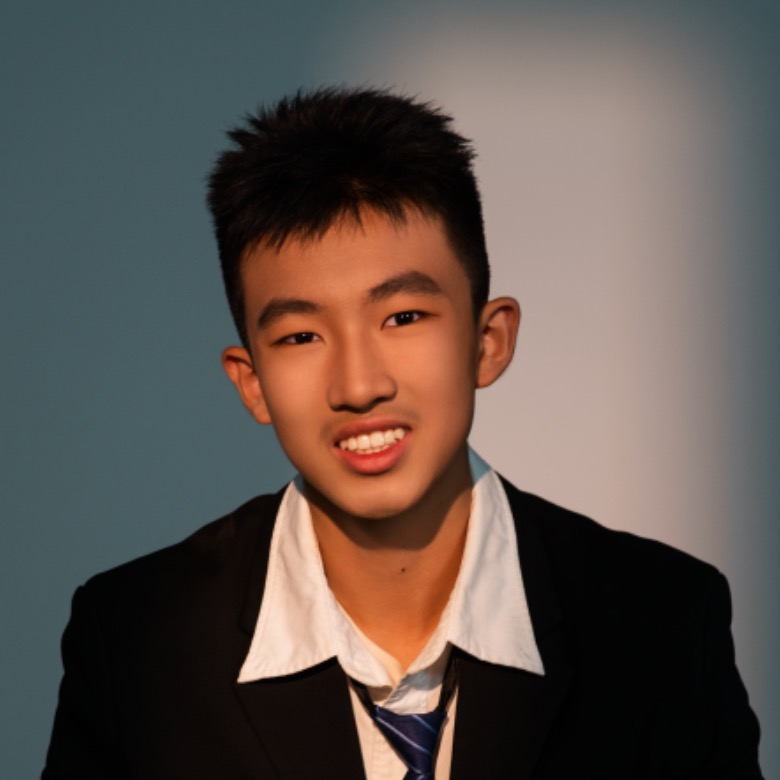
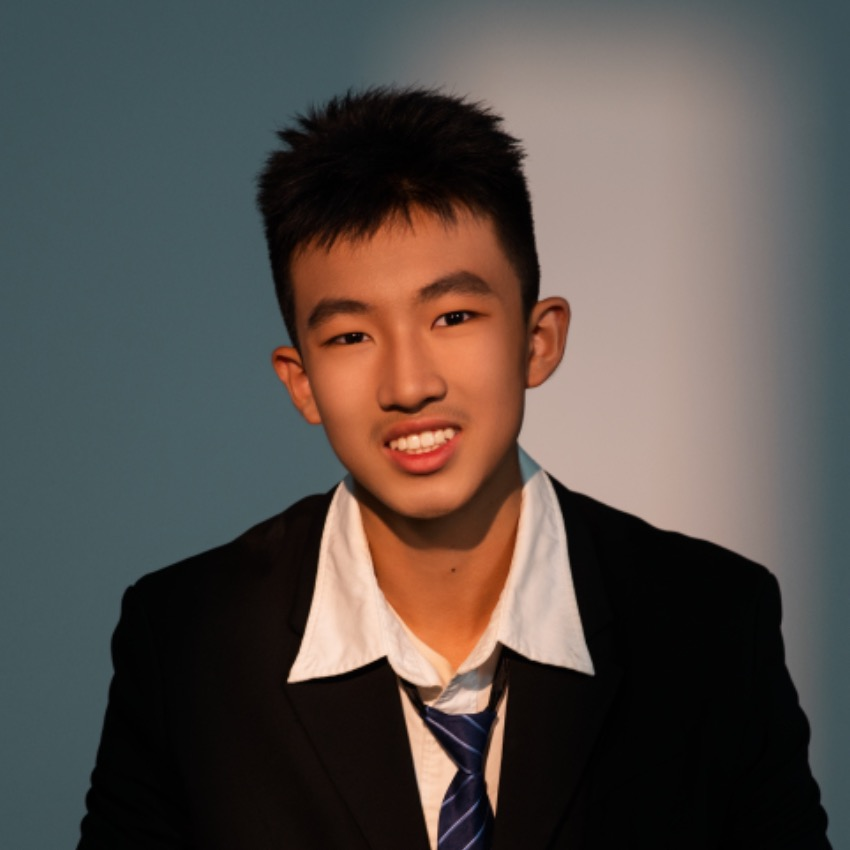
many changes

diff --git a/about.html b/about.html
@@ -4,7 +4,7 @@
     <meta charset="utf-8" />
     <meta name="viewport" content="width=device-width, initial-scale=1" />
     <title>About | Lynk Youth Initiative</title>
-    <link rel="stylesheet" href="styles.css?v=20260801-1" />
+    <link rel="stylesheet" href="styles.css?v=20260802-1" />
     <link rel="icon" href="brand_assets/images/smalllogowithoutbg.png" />
   </head>
   <body>
@@ -64,7 +64,7 @@
           <div class="member-photo-placeholder" role="img" aria-label="Photo placeholder for Soren Ergul">SE</div>
           <h3>Soren Ergul</h3>
           <span class="member-role">Core Leadership Member</span>
-          <p><strong>Grade:</strong> 10 &nbsp;&middot;&nbsp; Lexington High School</p>
+          <p><strong>Grade:</strong> 9 &nbsp;&middot;&nbsp; Lexington High School</p>
           <p><strong>From:</strong> To be added</p>
           <p><strong>Hobbies:</strong> Violin, bicycling, video games, reading, history</p>
         </article>
@@ -73,26 +73,17 @@
           <img src="brand_assets/images/danielliu.jpg" alt="Photo of Daniel Liu" />
           <h3>Daniel Liu</h3>
           <span class="member-role">Core Leadership Member</span>
-          <p><strong>Grade:</strong> 9 &nbsp;&middot;&nbsp; Pike School</p>
-          <p><strong>From:</strong> To be added</p>
+          <p><strong>Grade:</strong> 9 &nbsp;&middot;&nbsp; Cranbrook Schools</p>
+          <p><strong>From:</strong> Detroit, MI, USA</p>
           <p><strong>Hobbies:</strong> Math, Saxophone, Singing, Ice Hockey, Lacrosse</p>
-        </article>
-
-        <article class="member-card" onclick="openModal('renee-modal')">
-          <img src="brand_assets/images/reneegu.jpg" alt="Photo of Renee Gu" />
-          <h3>Renee Gu</h3>
-          <span class="member-role">Core Leadership Member</span>
-          <p><strong>Grade:</strong> 9 &nbsp;&middot;&nbsp; Boston Latin School</p>
-          <p><strong>From:</strong> To be added</p>
-          <p><strong>Hobbies:</strong> Creative writing, art, music, science</p>
         </article>
 
         <article class="member-card">
           <div class="member-photo-placeholder" role="img" aria-label="Photo placeholder for Aleks Mishchenko">AM</div>
           <h3>Aleks Mishchenko</h3>
           <span class="member-role">Core Leadership Member</span>
-          <p><strong>Grade:</strong> 10 &nbsp;&middot;&nbsp; Lexington High School</p>
-          <p><strong>From:</strong> To be added</p>
+          <p><strong>Grade:</strong> 9 &nbsp;&middot;&nbsp; Lexington High School</p>
+          <p><strong>From:</strong> Lexington, MA, USA</p>
           <p><strong>Hobbies:</strong> To be added</p>
         </article>
 
@@ -101,8 +92,17 @@
           <h3>Isaac Chen</h3>
           <span class="member-role">Core Leadership Member</span>
           <p><strong>Grade:</strong> 10 &nbsp;&middot;&nbsp; Lexington High School</p>
-          <p><strong>From:</strong> To be added</p>
+          <p><strong>From:</strong> Lexington, MA, USA</p>
           <p><strong>Hobbies:</strong> To be added</p>
+        </article>
+
+        <article class="member-card" onclick="openModal('renee-modal')">
+          <img src="brand_assets/images/reneegu.jpg" alt="Photo of Renee Gu" />
+          <h3>Renee Gu</h3>
+          <span class="member-role">Member</span>
+          <p><strong>Grade:</strong> 9 &nbsp;&middot;&nbsp; Boston Latin School</p>
+          <p><strong>From:</strong> Boston, MA, USA</p>
+          <p><strong>Hobbies:</strong> Creative writing, art, music, science</p>
         </article>
 
         <article class="member-card">
@@ -110,7 +110,7 @@
           <h3>Simon Bouhours</h3>
           <span class="member-role">Member</span>
           <p><strong>Grade:</strong> 10 &nbsp;&middot;&nbsp; École Alsacienne</p>
-          <p><strong>From:</strong> To be added</p>
+          <p><strong>From:</strong> Paris, France</p>
           <p><strong>Hobbies:</strong> To be added</p>
         </article>
 
@@ -119,7 +119,7 @@
           <h3>Rowan Chiang</h3>
           <span class="member-role">Member</span>
           <p><strong>Grade:</strong> 10 &nbsp;&middot;&nbsp; Burlingame High School</p>
-          <p><strong>From:</strong> To be added</p>
+          <p><strong>From:</strong> Burlingame, CA, USA</p>
           <p><strong>Hobbies:</strong> Volleyball, Math, Reading, Piano, Guitar</p>
         </article>
 
@@ -128,8 +128,8 @@
           <h3>Alistair Smith</h3>
           <span class="member-role">Member</span>
           <p><strong>Grade:</strong> 10 &nbsp;&middot;&nbsp; Coeur d'Alene High School</p>
-          <p><strong>From:</strong> To be added</p>
-          <p><strong>Hobbies:</strong> To be added</p>
+          <p><strong>From:</strong> Coeur d'Alene, ID, USA</p>
+          <p><strong>Hobbies:</strong> Vibe Coding, Math Conpetitions, Math tutoring, Rock Jumping</p>
         </article>
 
         <article class="member-card">
@@ -148,8 +148,8 @@
           <h3>Aiden Bo</h3>
           <span class="member-role">Member</span>
           <p><strong>Grade:</strong> 10 &nbsp;&middot;&nbsp; Lexington High School</p>
-          <p><strong>From:</strong> To be added</p>
-          <p><strong>Hobbies:</strong> Biking, tennis, hiking, mathematics</p>
+          <p><strong>From:</strong> Lexington, MA, USA</p>
+          <p><strong>Hobbies:</strong> Biking, Tennis, Hiking, Mathematics</p>
         </article>
 
 

diff --git a/projects.html b/projects.html
@@ -4,7 +4,7 @@
   <meta charset="utf-8" />
   <meta name="viewport" content="width=device-width, initial-scale=1" />
   <title>Projects | Lynk Youth Initiative</title>
-  <link rel="stylesheet" href="styles.css" />
+  <link rel="stylesheet" href="styles.css?v=20260802-1" />
   <link rel="icon" type="image/png" href="brand_assets/images/smalllogowithoutbg.png" />
 </head>
 
@@ -40,6 +40,9 @@
         <h2>Cancer App</h2>
         <p class="project-date">Current Project</p>
         <p>Jiawei and Rowan are developing a tool that tracks oral lesions over time using smartphone images and patient information. This project is based upon work done by the two in the Stanford AI4ALL program.</p>
+        <div class="card-links">
+          <a href="https://docs.google.com/document/d/1_wBN9YBFVrMnF_InCpk6Zp4-F9A2NGX28d2X8s2S9TU/edit?tab=t.0" class="card-link" target="_blank" rel="noopener">Project Overview →</a>
+        </div>
       </div>
 
       <div class="project-card">
@@ -47,6 +50,9 @@
         <h2>Louis AI</h2>
         <p class="project-date">Current Project</p>
         <p>Jiawei and Alistair have co-founded Louis AI (louislaw.ai), a locally run AI assistant to help small law firms with supervised drafting, research, summarization, and organization. The project is still in progress, and we are interviewing lawyers to understand their needs before building further.</p>
+        <div class="card-links">
+          <a href="https://docs.google.com/document/d/16V7St1LzvdYXL5aIZO0aPzNevUQcySJOgSzYddn7rNg/export?format=pdf" class="card-link" target="_blank" rel="noopener">Project Overview →</a>
+        </div>
       </div>
 
       <div class="project-card">
@@ -54,6 +60,10 @@
         <h2>Lynk Youth Stories</h2>
         <p class="project-date">Current Project</p>
         <p>Founded collectively by the core leadership members and led by Soren, Lynk Youth Stories is a substack magazine that hopes to connect individuals from around the world through a shared love of writing. "Now is the time to understand more, so that we may fear less." - Marie Curie</p>
+        <div class="card-links">
+          <a href="https://substack.com/@lynkyouthstories/notes" class="card-link" target="_blank" rel="noopener">Visit Substack →</a>
+          <a href="brand_assets/images/lynk-youth-stories-poster.png" class="card-link" target="_blank" rel="noopener">View Poster →</a>
+        </div>
       </div>
 
     </div>

diff --git a/styles.css b/styles.css
@@ -5,6 +5,8 @@
 :root {
   --yellow: #FFEB67;
   --yellow-hover: #ffe033;
+  --logo-blue: #1265a8;
+  --logo-blue-hover: #0b4f86;
   --blue-soft: #ddeaff;
   --navy: #0f1f3d;
   --ink: #1c1c2e;
@@ -146,7 +148,7 @@ nav a.active {
 }
 
 nav a.nav-donate {
-  background: #5555e7;
+  background: var(--logo-blue);
   color: var(--white);
   border-radius: 100px;
   margin-left: 4px;
@@ -154,7 +156,7 @@ nav a.nav-donate {
 }
 
 nav a.nav-donate:hover {
-  background: #4444cc;
+  background: var(--logo-blue-hover);
   color: var(--white);
   transform: translateY(-1px);
 }
@@ -208,7 +210,7 @@ main {
     radial-gradient(ellipse 55% 40% at 100% 0%,   var(--bg) 0%, transparent 100%),
     radial-gradient(ellipse 40% 28% at 0%   100%, var(--bg) 0%, transparent 100%),
     radial-gradient(ellipse 40% 28% at 100% 100%, var(--bg) 0%, transparent 100%),
-    linear-gradient(to bottom, var(--bg) 0%, transparent 38%),
+    linear-gradient(to bottom, var(--bg) 0%, var(--bg) 34%, transparent 68%),
     linear-gradient(to right,  var(--bg) 0%, transparent 18%),
     linear-gradient(to left,   var(--bg) 0%, transparent 18%);
   z-index: 1;
@@ -316,7 +318,7 @@ main {
 .homepage-title em {
   font-style: italic;
   font-weight: 600;
-  color: #5555e7;
+  color: var(--logo-blue);
   display: block;
 }
 
@@ -502,7 +504,7 @@ main {
 }
 
 .member-photo-frame--jiawei img {
-  transform: translateX(2px) scale(1.04);
+  transform: translateX(3px) scale(1.02);
 }
 
 .member-photo-frame--aiden img {
@@ -704,6 +706,17 @@ main {
 .card-link:hover {
   background: var(--yellow-hover);
   transform: translateX(3px);
+}
+
+.card-links {
+  display: flex;
+  flex-wrap: wrap;
+  gap: 10px;
+  margin-top: 16px;
+}
+
+.card-links .card-link {
+  margin-top: 0;
 }
 
 /* Future section */

diff --git a/contact.html b/contact.html
@@ -4,7 +4,7 @@
   <meta charset="utf-8" />
   <meta name="viewport" content="width=device-width, initial-scale=1" />
   <title>Contact | Lynk Youth Initiative</title>
-  <link rel="stylesheet" href="styles.css" />
+  <link rel="stylesheet" href="styles.css?v=20260802-1" />
   <link rel="icon" type="image/png" href="brand_assets/images/smalllogowithoutbg.png" />
   <style>
     .contact-layout {

diff --git a/donate.html b/donate.html
@@ -4,7 +4,7 @@
   <meta charset="utf-8" />
   <meta name="viewport" content="width=device-width, initial-scale=1" />
   <title>Donate | Lynk Youth Initiative</title>
-  <link rel="stylesheet" href="styles.css" />
+  <link rel="stylesheet" href="styles.css?v=20260802-1" />
   <link rel="icon" type="image/png" href="brand_assets/images/smalllogowithoutbg.png" />
   <style>
     .donate-hero {

diff --git a/index.html b/index.html
@@ -4,7 +4,7 @@
   <meta charset="utf-8" />
   <meta name="viewport" content="width=device-width, initial-scale=1" />
   <title>Lynk Youth Initiative</title>
-  <link rel="stylesheet" href="styles.css" />
+  <link rel="stylesheet" href="styles.css?v=20260802-1" />
   <link rel="icon" href="brand_assets/images/smalllogowithoutbg.png" />
 </head>
 
